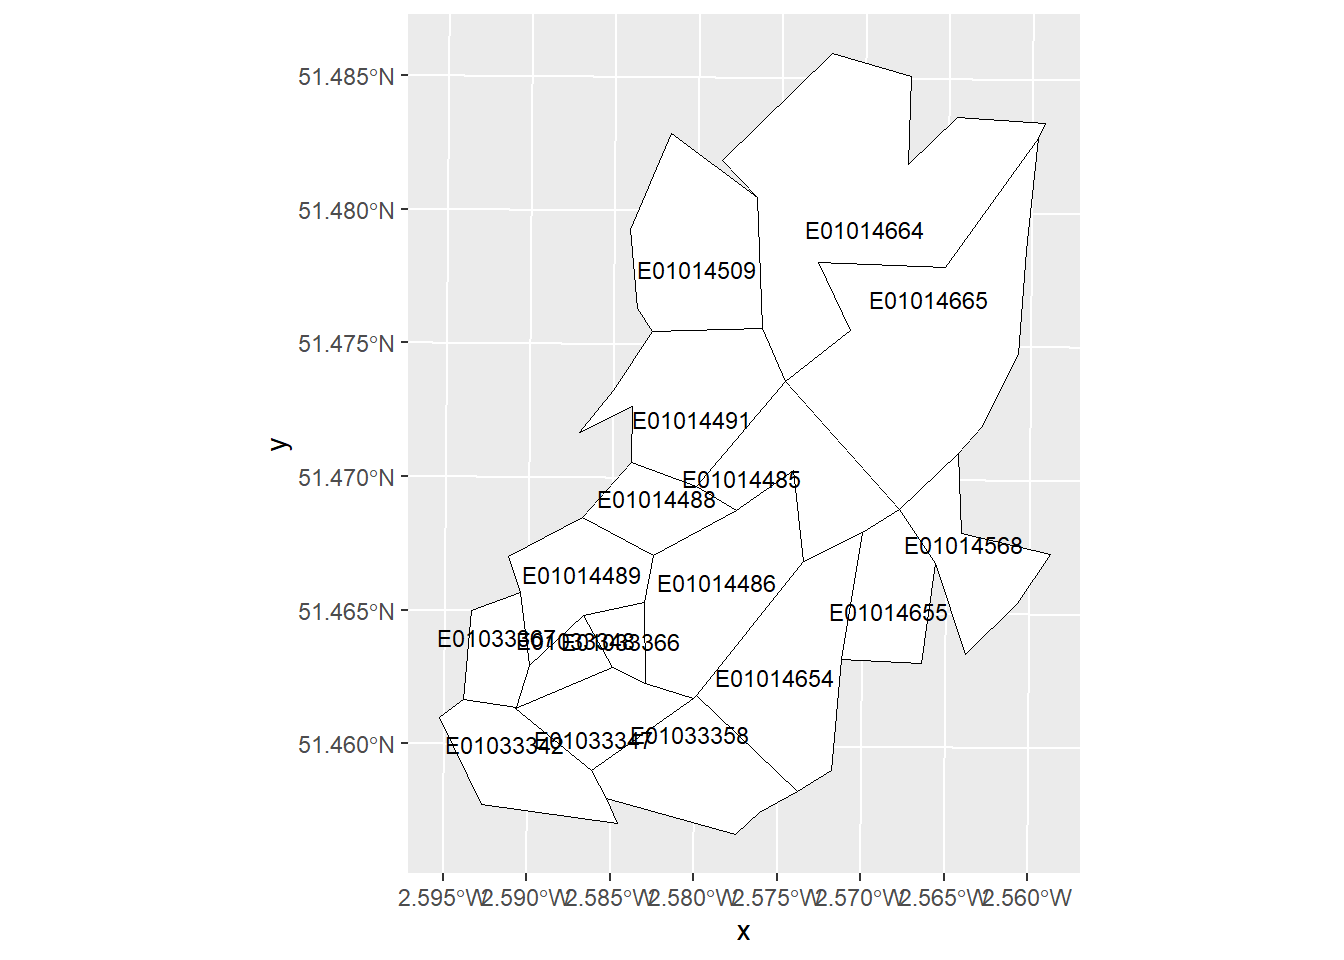
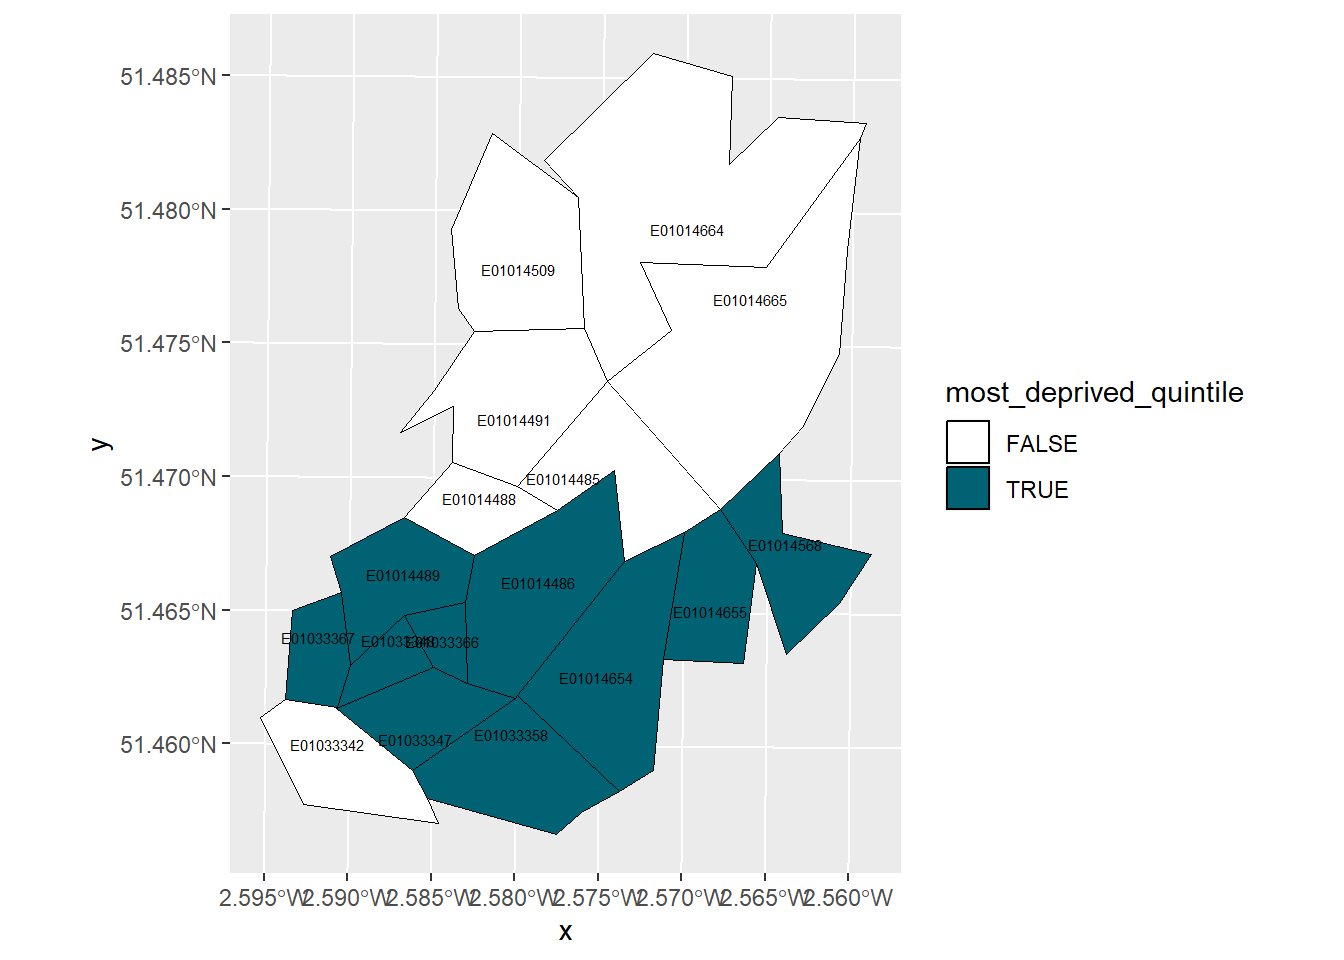
calculating % each LLSOA in the parish

diff --git a/R/2023-09-25_st-pauls-bristol_03_split_parish_by_imd.html b/R/2023-09-25_st-pauls-bristol_03_split_parish_by_imd.html
@@ -125,7 +125,8 @@ pre > code.sourceCode > span > a:first-child::before { text-decoration: underlin
 <pre><code>[conflicted] Will prefer dplyr::filter over any other package.</code></pre>
 </div>
 <div class="sourceCode cell-code" id="cb7"><pre class="sourceCode r code-with-copy"><code class="sourceCode r"><span id="cb7-1"><a href="#cb7-1" aria-hidden="true" tabindex="-1"></a><span class="fu">library</span>(vroom)</span>
-<span id="cb7-2"><a href="#cb7-2" aria-hidden="true" tabindex="-1"></a><span class="fu">library</span>(stringr)</span></code><button title="Copy to Clipboard" class="code-copy-button"><i class="bi"></i></button></pre></div>
+<span id="cb7-2"><a href="#cb7-2" aria-hidden="true" tabindex="-1"></a><span class="fu">library</span>(stringr)</span>
+<span id="cb7-3"><a href="#cb7-3" aria-hidden="true" tabindex="-1"></a><span class="fu">library</span>(carutools)</span></code><button title="Copy to Clipboard" class="code-copy-button"><i class="bi"></i></button></pre></div>
 </div>
 </section>
 <section id="load-data" class="level2">
@@ -191,45 +192,118 @@ pre > code.sourceCode > span > a:first-child::before { text-decoration: underlin
 </div>
 </section>
 </section>
-<section id="join-imd-vigintiles-to-llsoa" class="level2">
-<h2 class="anchored" data-anchor-id="join-imd-vigintiles-to-llsoa">Join IMD vigintiles to LLSOA</h2>
-<section id="create-imd-vigintiles" class="level3">
-<h3 class="anchored" data-anchor-id="create-imd-vigintiles">Create IMD vigintiles</h3>
-<div class="cell">
-<div class="sourceCode cell-code" id="cb12"><pre class="sourceCode r code-with-copy"><code class="sourceCode r"><span id="cb12-1"><a href="#cb12-1" aria-hidden="true" tabindex="-1"></a>english_imd <span class="ot">&lt;-</span> <span class="fu">mutate</span>(english_imd, <span class="at">imd_vigintile =</span> <span class="fu">ntile</span>(imd_rank, <span class="dv">20</span>))</span>
-<span id="cb12-2"><a href="#cb12-2" aria-hidden="true" tabindex="-1"></a></span>
-<span id="cb12-3"><a href="#cb12-3" aria-hidden="true" tabindex="-1"></a><span class="do">## Check that's worked:</span></span>
-<span id="cb12-4"><a href="#cb12-4" aria-hidden="true" tabindex="-1"></a><span class="fu">summarise</span>(english_imd, <span class="at">.by =</span> <span class="fu">c</span>(imd_decile, imd_vigintile)) <span class="sc">|&gt;</span> </span>
-<span id="cb12-5"><a href="#cb12-5" aria-hidden="true" tabindex="-1"></a>  <span class="fu">arrange</span>(imd_vigintile) <span class="sc">|&gt;</span> </span>
-<span id="cb12-6"><a href="#cb12-6" aria-hidden="true" tabindex="-1"></a>  <span class="fu">head</span>()</span></code><button title="Copy to Clipboard" class="code-copy-button"><i class="bi"></i></button></pre></div>
-<div class="cell-output cell-output-stdout">
-<pre><code># A tibble: 6 × 2
-  imd_decile imd_vigintile
-       &lt;int&gt;         &lt;int&gt;
-1          1             1
-2          1             2
-3          2             2
-4          2             3
-5          2             4
-6          3             4</code></pre>
-</div>
-</div>
-</section>
-<section id="join-vigintiles-to-llsoa" class="level3">
-<h3 class="anchored" data-anchor-id="join-vigintiles-to-llsoa">Join vigintiles to LLSOA</h3>
+<section id="join-imd-data-to-llsoa" class="level2">
+<h2 class="anchored" data-anchor-id="join-imd-data-to-llsoa">Join IMD data to LLSOA</h2>
 <p><code>left_join()</code> IMD data to <code>llsoa</code> by LLSOA code</p>
-</section>
+<div class="cell">
+<div class="sourceCode cell-code" id="cb12"><pre class="sourceCode r code-with-copy"><code class="sourceCode r"><span id="cb12-1"><a href="#cb12-1" aria-hidden="true" tabindex="-1"></a>llsoa <span class="ot">&lt;-</span> </span>
+<span id="cb12-2"><a href="#cb12-2" aria-hidden="true" tabindex="-1"></a>  <span class="fu">left_join</span>(</span>
+<span id="cb12-3"><a href="#cb12-3" aria-hidden="true" tabindex="-1"></a>  llsoa,</span>
+<span id="cb12-4"><a href="#cb12-4" aria-hidden="true" tabindex="-1"></a>  english_imd,</span>
+<span id="cb12-5"><a href="#cb12-5" aria-hidden="true" tabindex="-1"></a>  <span class="at">by =</span> <span class="st">"lsoa_2011_code"</span>,</span>
+<span id="cb12-6"><a href="#cb12-6" aria-hidden="true" tabindex="-1"></a>  <span class="at">suffix =</span> <span class="fu">c</span>(<span class="st">".llsoa"</span>, <span class="st">".english_imd"</span>))</span></code><button title="Copy to Clipboard" class="code-copy-button"><i class="bi"></i></button></pre></div>
+</div>
 </section>
 <section id="plot-llsoa-imd-and-code" class="level2">
 <h2 class="anchored" data-anchor-id="plot-llsoa-imd-and-code">Plot LLSOA IMD and code</h2>
 <div class="cell">
+<div class="sourceCode cell-code" id="cb13"><pre class="sourceCode r code-with-copy"><code class="sourceCode r"><span id="cb13-1"><a href="#cb13-1" aria-hidden="true" tabindex="-1"></a>llsoa <span class="ot">&lt;-</span></span>
+<span id="cb13-2"><a href="#cb13-2" aria-hidden="true" tabindex="-1"></a>  <span class="fu">mutate</span>(llsoa,</span>
+<span id="cb13-3"><a href="#cb13-3" aria-hidden="true" tabindex="-1"></a>         <span class="at">most_deprived_quintile =</span> imd_decile <span class="sc">&lt;=</span> <span class="dv">2</span></span>
+<span id="cb13-4"><a href="#cb13-4" aria-hidden="true" tabindex="-1"></a>         )</span></code><button title="Copy to Clipboard" class="code-copy-button"><i class="bi"></i></button></pre></div>
+</div>
+<div class="cell">
 <div class="sourceCode cell-code" id="cb14"><pre class="sourceCode r code-with-copy"><code class="sourceCode r"><span id="cb14-1"><a href="#cb14-1" aria-hidden="true" tabindex="-1"></a><span class="fu">ggplot</span>(llsoa) <span class="sc">+</span></span>
-<span id="cb14-2"><a href="#cb14-2" aria-hidden="true" tabindex="-1"></a>  <span class="fu">geom_sf</span>(<span class="at">colour =</span> <span class="st">"black"</span>, <span class="at">fill =</span> <span class="st">"white"</span>) <span class="sc">+</span> </span>
-<span id="cb14-3"><a href="#cb14-3" aria-hidden="true" tabindex="-1"></a>  <span class="fu">geom_sf_text</span>(<span class="fu">aes</span>(<span class="at">label =</span> lsoa_2011_code), <span class="at">size =</span> <span class="dv">3</span>)</span></code><button title="Copy to Clipboard" class="code-copy-button"><i class="bi"></i></button></pre></div>
+<span id="cb14-2"><a href="#cb14-2" aria-hidden="true" tabindex="-1"></a>  <span class="fu">geom_sf</span>(</span>
+<span id="cb14-3"><a href="#cb14-3" aria-hidden="true" tabindex="-1"></a>    <span class="fu">aes</span>(<span class="at">fill =</span> most_deprived_quintile),</span>
+<span id="cb14-4"><a href="#cb14-4" aria-hidden="true" tabindex="-1"></a>    <span class="at">colour =</span> <span class="st">"black"</span></span>
+<span id="cb14-5"><a href="#cb14-5" aria-hidden="true" tabindex="-1"></a>    ) <span class="sc">+</span> </span>
+<span id="cb14-6"><a href="#cb14-6" aria-hidden="true" tabindex="-1"></a>  </span>
+<span id="cb14-7"><a href="#cb14-7" aria-hidden="true" tabindex="-1"></a>  <span class="fu">scale_fill_manual</span>(<span class="at">values =</span> <span class="fu">c</span>(<span class="st">`</span><span class="at">TRUE</span><span class="st">`</span> <span class="ot">=</span> <span class="fu">ca_dark_teal</span>(), <span class="st">`</span><span class="at">FALSE</span><span class="st">`</span> <span class="ot">=</span> <span class="st">"white"</span>)) <span class="sc">+</span> </span>
+<span id="cb14-8"><a href="#cb14-8" aria-hidden="true" tabindex="-1"></a>  </span>
+<span id="cb14-9"><a href="#cb14-9" aria-hidden="true" tabindex="-1"></a>  <span class="fu">geom_sf_text</span>(<span class="fu">aes</span>(<span class="at">label =</span> lsoa_2011_code), <span class="at">size =</span> <span class="dv">2</span>)</span></code><button title="Copy to Clipboard" class="code-copy-button"><i class="bi"></i></button></pre></div>
 <div class="cell-output-display">
 <p><img src="2023-09-25_st-pauls-bristol_03_split_parish_by_imd_files/figure-html/plot_llsoa_imd_and_code-1.png" class="img-fluid" width="672"></p>
 </div>
 </div>
+</section>
+<section id="get-northsouth-split" class="level2">
+<h2 class="anchored" data-anchor-id="get-northsouth-split">Get North/South Split</h2>
+<div class="cell">
+<div class="sourceCode cell-code" id="cb15"><pre class="sourceCode r code-with-copy"><code class="sourceCode r"><span id="cb15-1"><a href="#cb15-1" aria-hidden="true" tabindex="-1"></a>llsoa <span class="ot">&lt;-</span> </span>
+<span id="cb15-2"><a href="#cb15-2" aria-hidden="true" tabindex="-1"></a>  <span class="fu">mutate</span>(</span>
+<span id="cb15-3"><a href="#cb15-3" aria-hidden="true" tabindex="-1"></a>    llsoa,</span>
+<span id="cb15-4"><a href="#cb15-4" aria-hidden="true" tabindex="-1"></a>    <span class="at">south =</span> most_deprived_quintile <span class="sc">|</span> lsoa_2011_code <span class="sc">==</span> <span class="st">"E01033342"</span></span>
+<span id="cb15-5"><a href="#cb15-5" aria-hidden="true" tabindex="-1"></a>  )</span>
+<span id="cb15-6"><a href="#cb15-6" aria-hidden="true" tabindex="-1"></a></span>
+<span id="cb15-7"><a href="#cb15-7" aria-hidden="true" tabindex="-1"></a><span class="co"># test plot:</span></span>
+<span id="cb15-8"><a href="#cb15-8" aria-hidden="true" tabindex="-1"></a><span class="fu">ggplot</span>(llsoa) <span class="sc">+</span></span>
+<span id="cb15-9"><a href="#cb15-9" aria-hidden="true" tabindex="-1"></a>  <span class="fu">geom_sf</span>(</span>
+<span id="cb15-10"><a href="#cb15-10" aria-hidden="true" tabindex="-1"></a>    <span class="fu">aes</span>(<span class="at">fill =</span> south),</span>
+<span id="cb15-11"><a href="#cb15-11" aria-hidden="true" tabindex="-1"></a>    <span class="at">colour =</span> <span class="st">"black"</span></span>
+<span id="cb15-12"><a href="#cb15-12" aria-hidden="true" tabindex="-1"></a>    ) <span class="sc">+</span> </span>
+<span id="cb15-13"><a href="#cb15-13" aria-hidden="true" tabindex="-1"></a>  <span class="fu">scale_fill_manual</span>(</span>
+<span id="cb15-14"><a href="#cb15-14" aria-hidden="true" tabindex="-1"></a>    <span class="at">values =</span> <span class="fu">c</span>(<span class="st">`</span><span class="at">TRUE</span><span class="st">`</span> <span class="ot">=</span> <span class="fu">ca_dark_teal</span>(), <span class="st">`</span><span class="at">FALSE</span><span class="st">`</span> <span class="ot">=</span> <span class="st">"white"</span>)</span>
+<span id="cb15-15"><a href="#cb15-15" aria-hidden="true" tabindex="-1"></a>    )</span></code><button title="Copy to Clipboard" class="code-copy-button"><i class="bi"></i></button></pre></div>
+<div class="cell-output-display">
+<p><img src="2023-09-25_st-pauls-bristol_03_split_parish_by_imd_files/figure-html/get_n_s_split-1.png" class="img-fluid" width="672"></p>
+</div>
+</div>
+</section>
+<section id="find-intersections" class="level2">
+<h2 class="anchored" data-anchor-id="find-intersections">Find intersections</h2>
+<section id="get-tibble-of-intersections-with-parish" class="level3">
+<h3 class="anchored" data-anchor-id="get-tibble-of-intersections-with-parish">Get tibble of intersections with parish</h3>
+<div class="cell">
+<div class="sourceCode cell-code" id="cb16"><pre class="sourceCode r code-with-copy"><code class="sourceCode r"><span id="cb16-1"><a href="#cb16-1" aria-hidden="true" tabindex="-1"></a>intersections <span class="ot">&lt;-</span></span>
+<span id="cb16-2"><a href="#cb16-2" aria-hidden="true" tabindex="-1"></a>  <span class="fu">st_intersection</span>(llsoa, parish) <span class="sc">|&gt;</span> </span>
+<span id="cb16-3"><a href="#cb16-3" aria-hidden="true" tabindex="-1"></a>  <span class="fu">select</span>(lsoa_2011_code) <span class="sc">|&gt;</span> </span>
+<span id="cb16-4"><a href="#cb16-4" aria-hidden="true" tabindex="-1"></a>  <span class="fu">rename</span>(<span class="at">intersection =</span> geometry)</span></code><button title="Copy to Clipboard" class="code-copy-button"><i class="bi"></i></button></pre></div>
+<div class="cell-output cell-output-stderr">
+<pre><code>Warning: attribute variables are assumed to be spatially constant throughout
+all geometries</code></pre>
+</div>
+<div class="sourceCode cell-code" id="cb18"><pre class="sourceCode r code-with-copy"><code class="sourceCode r"><span id="cb18-1"><a href="#cb18-1" aria-hidden="true" tabindex="-1"></a>intersections <span class="ot">&lt;-</span> <span class="fu">mutate</span>(intersections, <span class="at">intersecting_area =</span> <span class="fu">unclass</span>(<span class="fu">st_area</span>(intersection)))</span>
+<span id="cb18-2"><a href="#cb18-2" aria-hidden="true" tabindex="-1"></a></span>
+<span id="cb18-3"><a href="#cb18-3" aria-hidden="true" tabindex="-1"></a><span class="fu">ggplot</span>(intersections) <span class="sc">+</span> </span>
+<span id="cb18-4"><a href="#cb18-4" aria-hidden="true" tabindex="-1"></a>  <span class="fu">geom_sf</span>()</span></code><button title="Copy to Clipboard" class="code-copy-button"><i class="bi"></i></button></pre></div>
+<div class="cell-output-display">
+<p><img src="2023-09-25_st-pauls-bristol_03_split_parish_by_imd_files/figure-html/find_intersections-1.png" class="img-fluid" width="672"></p>
+</div>
+</div>
+</section>
+<section id="join-llsoa-to-intersection-geometries" class="level3">
+<h3 class="anchored" data-anchor-id="join-llsoa-to-intersection-geometries">Join LLSOA to intersection geometries</h3>
+<div class="cell">
+<div class="sourceCode cell-code" id="cb19"><pre class="sourceCode r code-with-copy"><code class="sourceCode r"><span id="cb19-1"><a href="#cb19-1" aria-hidden="true" tabindex="-1"></a>llsoa <span class="ot">&lt;-</span></span>
+<span id="cb19-2"><a href="#cb19-2" aria-hidden="true" tabindex="-1"></a>  <span class="fu">mutate</span>(llsoa, <span class="at">llsoa_area =</span> <span class="fu">unclass</span>(<span class="fu">st_area</span>(geometry))) <span class="sc">|&gt;</span> </span>
+<span id="cb19-3"><a href="#cb19-3" aria-hidden="true" tabindex="-1"></a>  <span class="fu">as_tibble</span>() <span class="sc">|&gt;</span> </span>
+<span id="cb19-4"><a href="#cb19-4" aria-hidden="true" tabindex="-1"></a>  <span class="fu">select</span>(<span class="sc">-</span>geometry)</span>
+<span id="cb19-5"><a href="#cb19-5" aria-hidden="true" tabindex="-1"></a></span>
+<span id="cb19-6"><a href="#cb19-6" aria-hidden="true" tabindex="-1"></a>llsoa <span class="ot">&lt;-</span> <span class="fu">left_join</span>(llsoa, intersections, <span class="at">by =</span> <span class="st">"lsoa_2011_code"</span>)</span></code><button title="Copy to Clipboard" class="code-copy-button"><i class="bi"></i></button></pre></div>
+</div>
+</section>
+<section id="calculate-of-each-llsoa-in-parish" class="level3">
+<h3 class="anchored" data-anchor-id="calculate-of-each-llsoa-in-parish">Calculate % of each LLSOA in Parish</h3>
+<div class="cell">
+<div class="sourceCode cell-code" id="cb20"><pre class="sourceCode r code-with-copy"><code class="sourceCode r"><span id="cb20-1"><a href="#cb20-1" aria-hidden="true" tabindex="-1"></a>llsoa <span class="ot">&lt;-</span> <span class="fu">mutate</span>(llsoa, <span class="at">llsoa_in_parish =</span> intersecting_area <span class="sc">/</span> llsoa_area, <span class="at">.keep =</span> <span class="st">"unused"</span>)</span>
+<span id="cb20-2"><a href="#cb20-2" aria-hidden="true" tabindex="-1"></a></span>
+<span id="cb20-3"><a href="#cb20-3" aria-hidden="true" tabindex="-1"></a><span class="fu">glimpse</span>(llsoa)</span></code><button title="Copy to Clipboard" class="code-copy-button"><i class="bi"></i></button></pre></div>
+<div class="cell-output cell-output-stdout">
+<pre><code>Rows: 17
+Columns: 9
+$ lsoa_2011_code         &lt;chr&gt; "E01014485", "E01014486", "E01014488", "E010144…
+$ lon                    &lt;dbl&gt; -2.57683, -2.57835, -2.58161, -2.58659, -2.5800…
+$ lat                    &lt;dbl&gt; 51.47015, 51.46520, 51.46908, 51.46585, 51.4732…
+$ imd_rank               &lt;int&gt; 12992, 3573, 11617, 5787, 21380, 26948, 4274, 1…
+$ imd_decile             &lt;int&gt; 4, 2, 4, 2, 7, 9, 2, 1, 1, 3, 5, 4, 2, 2, 1, 1,…
+$ most_deprived_quintile &lt;lgl&gt; FALSE, TRUE, FALSE, TRUE, FALSE, FALSE, TRUE, T…
+$ south                  &lt;lgl&gt; FALSE, TRUE, FALSE, TRUE, FALSE, FALSE, TRUE, T…
+$ intersection           &lt;POLYGON [m]&gt; POLYGON ((360501.1 174496.1..., POLYGON…
+$ llsoa_in_parish        &lt;dbl&gt; 1.000000000, 1.000000000, 0.386728014, 0.657151…</code></pre>
+</div>
+</div>
+</section>
 </section>
 
 </main>
